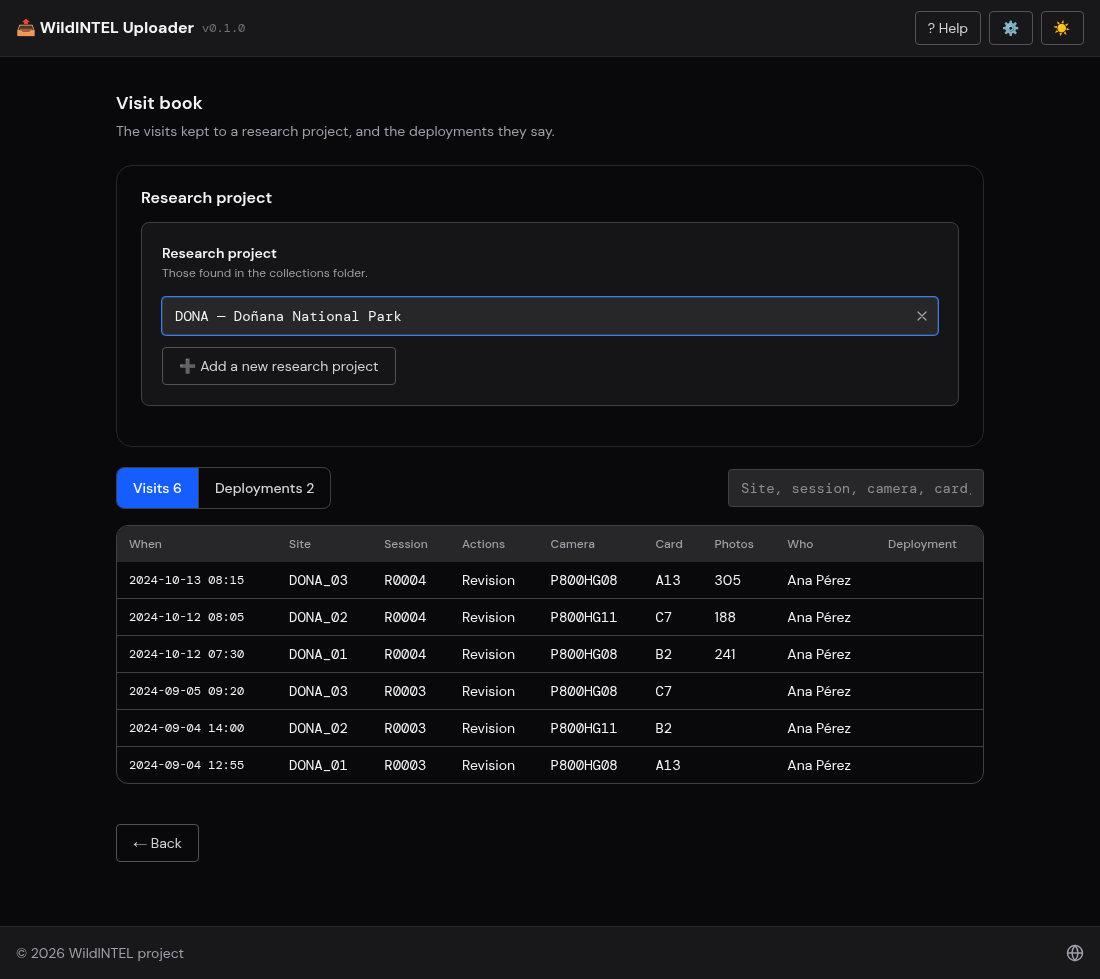
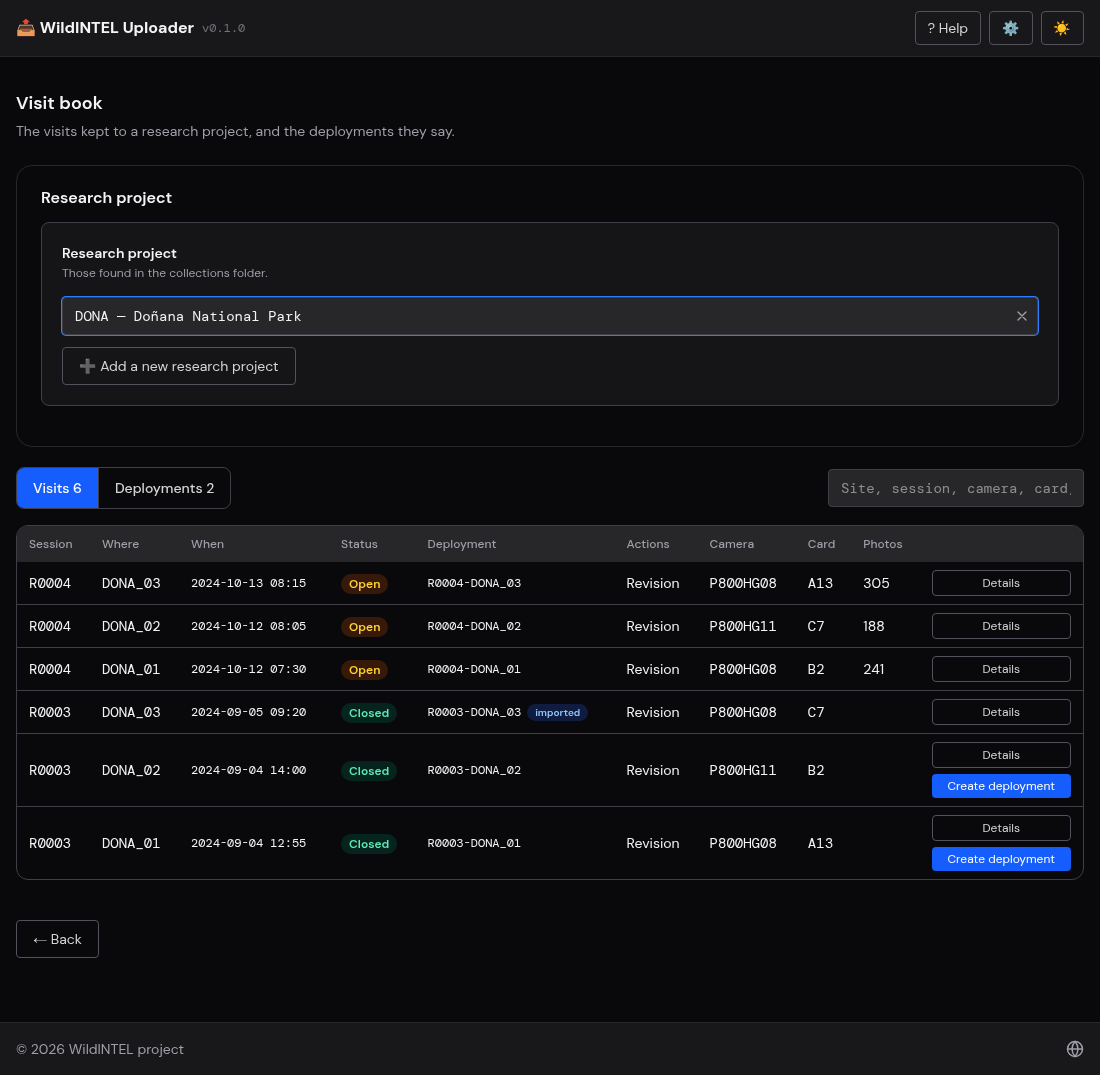
Visit book: Session, Where, When, Status (open or closed) and Deployment first; a button for the details of a visit and one to create the deployment of a closed visit

diff --git a/frontend/src/pages/VisitBookPage.tsx b/frontend/src/pages/VisitBookPage.tsx
@@ -1,22 +1,36 @@
-import { useEffect, useState } from 'react'
+import { Fragment, useEffect, useState } from 'react'
 import { api } from '../api'
 import FieldDeployments from '../components/FieldDeployments'
 import ResearchProjectPicker from '../components/ResearchProjectPicker'
 import Notice from '../components/Notice'
-import type { FieldDeployment, FieldLogsResult, LocalResearchProject, StoredVisit } from '../types'
-import { btnOutline, inputClass } from './ImportDeploymentPage'
+import type { BookVisit, ClosedVisitTarget, FieldDeployment, FieldLogsResult, LocalResearchProject } from '../types'
+import { btnOutline, btnPrimary, inputClass } from './ImportDeploymentPage'
 
 interface Props {
   onBack: () => void
+  /** Goes to Import deployment for a closed visit: its research project, and the visit whose card was collected — the deployment is of it. */
+  onImportImages?: (target: ClosedVisitTarget) => void
 }
+
+/** The fields of a visit the details show, in this order, when it has them. */
+const DETAILS: [keyof BookVisit, string][] = [
+  ['trappers', 'Who went'], ['setup_by', 'Set up by'], ['camera_id', 'Camera'], ['camera_model', 'Camera model'], ['sd', 'SD card left'], ['num_photos', 'Photos counted'], ['status', 'Status of the camera'],
+  ['card_batteries_ok', 'Card and batteries'], ['date_time_ok', 'Camera date and time OK'], ['latitude', 'Latitude'], ['longitude', 'Longitude'], ['camera_interval', 'Camera delay (s)'],
+  ['camera_height', 'Camera height (m)'], ['camera_depth', 'Camera depth (m)'], ['camera_tilt', 'Camera tilt (°)'], ['camera_heading', 'Camera heading (°)'], ['detection_distance', 'Detection distance (m)'],
+  ['timestamp_issues', 'Timestamp issues'], ['bait_use', 'Bait use'], ['feature_type', 'Feature type'], ['habitat', 'Habitat'], ['deployment_groups', 'Deployment groups'], ['tags', 'Tags'],
+  ['comments', 'Notes'], ['when', 'Instant (UTC)'], ['deployment_id', 'Deployment imported'],
+]
+
+const shownValue = (v: unknown) => (typeof v === 'boolean' ? (v ? 'yes' : 'no') : Array.isArray(v) ? v.join(', ') : String(v))
 
 type View = 'visits' | 'deployments'
 
 /** The visit book of a research project: the visits kept to it, and the deployments they say — closed, and the ones whose camera is still out — with the logs of their collections. */
-export default function VisitBookPage({ onBack }: Props) {
+export default function VisitBookPage({ onBack, onImportImages }: Props) {
   const [project, setProject] = useState<LocalResearchProject | undefined>(undefined)
   const [view, setView] = useState<View>('visits')
-  const [visits, setVisits] = useState<StoredVisit[] | null>(null)
+  const [visits, setVisits] = useState<BookVisit[] | null>(null)
+  const [opened, setOpened] = useState<string | null>(null)
   const [deployments, setDeployments] = useState<FieldDeployment[] | null>(null)
   const [filter, setFilter] = useState('')
   const [error, setError] = useState<string | null>(null)
@@ -26,7 +40,7 @@ export default function VisitBookPage({ onBack }: Props) {
     setVisits(null); setDeployments(null); setLogs(null); setError(null)
     if (!project) return
     let cancelled = false
-    api.listVisits(project.acronym)
+    api.visitBook(project.acronym)
       .then(({ results }) => { if (!cancelled) setVisits(results) })
       .catch((e) => { if (!cancelled) setError(e instanceof Error ? e.message : 'Could not read the visits.') })
     api.fieldDeployments(project.acronym)
@@ -43,11 +57,11 @@ export default function VisitBookPage({ onBack }: Props) {
 
   const needle = filter.trim().toLowerCase()
   const shown = (visits ?? [])
-    .filter((v) => !needle || `${v.location_id} ${v.session} ${v.camera_id ?? ''} ${v.sd ?? ''} ${v.trappers ?? ''} ${v.actions.join(' ')}`.toLowerCase().includes(needle))
+    .filter((v) => !needle || `${v.location_id} ${v.session} ${v.camera_id ?? ''} ${v.sd ?? ''} ${v.trappers ?? ''} ${v.actions.join(' ')} ${v.deployment ?? ''} ${v.deployment_status ?? ''}`.toLowerCase().includes(needle))
     .sort((a, b) => `${b.date}T${b.time}`.localeCompare(`${a.date}T${a.time}`))
 
   return (
-    <div className="mx-auto max-w-[900px] px-4 py-8">
+    <div className="mx-auto max-w-[1100px] px-4 py-8">
       <h4 className="text-lg font-semibold mb-1">Visit book</h4>
       <p className="text-zinc-500 dark:text-zinc-400 mb-6 text-sm">The visits kept to a research project, and the deployments they say.</p>
 
@@ -75,23 +89,51 @@ export default function VisitBookPage({ onBack }: Props) {
               <div className="overflow-x-auto rounded-xl border border-zinc-200 dark:border-zinc-700">
                 <table className="w-full text-sm" aria-label="Visits">
                   <thead className="bg-zinc-50 dark:bg-zinc-800 text-xs text-zinc-500 dark:text-zinc-400">
-                    <tr>{['When', 'Site', 'Session', 'Actions', 'Camera', 'Card', 'Photos', 'Who', 'Deployment'].map((h) => <th key={h} scope="col" className="px-3 py-2.5 text-left font-medium">{h}</th>)}</tr>
+                    <tr>{['Session', 'Where', 'When', 'Status', 'Deployment', 'Actions', 'Camera', 'Card', 'Photos', ''].map((h, i) => <th key={i} scope="col" className="px-3 py-2.5 text-left font-medium">{h || <span className="sr-only">What to do</span>}</th>)}</tr>
                   </thead>
                   <tbody className="divide-y divide-zinc-200 dark:divide-zinc-700">
-                    {shown.map((v) => (
-                      <tr key={`${v.location_id}|${v.date}|${v.time}`}>
-                        <td className="px-3 py-2 font-mono text-xs whitespace-nowrap">{v.date} {v.time.slice(0, 5)}</td>
-                        <td className="px-3 py-2 font-mono">{v.location_id}</td>
-                        <td className="px-3 py-2 font-mono">{v.session}</td>
-                        <td className="px-3 py-2">{v.actions.join(' + ')}</td>
-                        <td className="px-3 py-2 font-mono">{v.camera_id ?? ''}</td>
-                        <td className="px-3 py-2 font-mono">{v.sd ?? ''}</td>
-                        <td className="px-3 py-2">{v.num_photos ?? ''}</td>
-                        <td className="px-3 py-2">{v.trappers ?? ''}</td>
-                        <td className="px-3 py-2 font-mono text-xs">{v.deployment_id ?? ''}</td>
-                      </tr>
-                    ))}
-                    {shown.length === 0 && <tr><td colSpan={9} className="px-4 py-3 text-zinc-500 dark:text-zinc-400">{visits.length === 0 ? 'No visit has been registered to this research project yet.' : 'No visit matches.'}</td></tr>}
+                    {shown.map((v) => {
+                      const key = `${v.location_id}|${v.date}|${v.time}`
+                      return (
+                        <Fragment key={key}>
+                          <tr>
+                            <td className="px-3 py-2 font-mono">{v.session}</td>
+                            <td className="px-3 py-2 font-mono">{v.location_id}</td>
+                            <td className="px-3 py-2 font-mono text-xs whitespace-nowrap">{v.date} {v.time.slice(0, 5)}</td>
+                            <td className="px-3 py-2">
+                              {v.deployment_status
+                                ? <span className={`rounded-full px-2 py-0.5 text-xs font-semibold ${v.deployment_status === 'closed' ? 'bg-emerald-100 dark:bg-emerald-900/40 text-emerald-700 dark:text-emerald-300' : 'bg-amber-100 dark:bg-amber-900/40 text-amber-800 dark:text-amber-300'}`}>{v.deployment_status === 'closed' ? 'Closed' : 'Open'}</span>
+                                : <span className="text-zinc-400">—</span>}
+                            </td>
+                            <td className="px-3 py-2 font-mono text-xs">{v.deployment ?? ''}{v.deployment_id ? <span className="ml-1.5 rounded-full bg-blue-100 dark:bg-blue-900/40 px-2 py-0.5 text-[10px] font-semibold text-blue-700 dark:text-blue-300 font-sans">imported</span> : null}</td>
+                            <td className="px-3 py-2">{v.actions.join(' + ')}</td>
+                            <td className="px-3 py-2 font-mono">{v.camera_id ?? ''}</td>
+                            <td className="px-3 py-2 font-mono">{v.sd ?? ''}</td>
+                            <td className="px-3 py-2">{v.num_photos ?? ''}</td>
+                            <td className="px-3 py-2 whitespace-nowrap">
+                              <div className="flex flex-col gap-1.5 items-stretch">
+                                <button type="button" className={`${btnOutline} !px-2.5 !py-1 !text-xs`} aria-expanded={opened === key} aria-label={`Details of the visit ${v.session} to ${v.location_id}`} onClick={() => setOpened(opened === key ? null : key)}>Details</button>
+                                {v.deployment_status === 'closed' && !v.deployment_id && onImportImages && (
+                                  <button type="button" className={`${btnPrimary} !px-2.5 !py-1 !text-xs`} aria-label={`Create the deployment of the visit ${v.session} to ${v.location_id}`} onClick={() => onImportImages({ researchProjectId: project!.acronym, visit: v })}>Create deployment</button>
+                                )}
+                              </div>
+                            </td>
+                          </tr>
+                          {opened === key && (
+                            <tr>
+                              <td colSpan={10} className="bg-zinc-50 dark:bg-zinc-900/60 px-5 py-4">
+                                <dl aria-label={`Details of the visit ${v.session} to ${v.location_id}`} className="grid grid-cols-1 sm:grid-cols-2 gap-x-8 gap-y-1.5 text-sm">
+                                  <div className="flex gap-2"><dt className="text-zinc-500 dark:text-zinc-400">Actions</dt><dd>{v.actions.join(' + ')}</dd></div>
+                                  {DETAILS.filter(([k]) => { const value = v[k]; return value !== null && value !== undefined && value !== '' && !(Array.isArray(value) && value.length === 0) })
+                                    .map(([k, label]) => <div key={k} className="flex gap-2"><dt className="text-zinc-500 dark:text-zinc-400">{label}</dt><dd className="font-mono text-xs break-all self-center">{shownValue(v[k])}</dd></div>)}
+                                </dl>
+                              </td>
+                            </tr>
+                          )}
+                        </Fragment>
+                      )
+                    })}
+                    {shown.length === 0 && <tr><td colSpan={10} className="px-4 py-3 text-zinc-500 dark:text-zinc-400">{visits.length === 0 ? 'No visit has been registered to this research project yet.' : 'No visit matches.'}</td></tr>}
                   </tbody>
                 </table>
               </div>

diff --git a/frontend/src/pages/VisitBookPage.test.tsx b/frontend/src/pages/VisitBookPage.test.tsx
@@ -4,20 +4,22 @@ import { beforeEach, describe, expect, it, vi } from 'vitest'
 import { api } from '../api'
 import VisitBookPage from './VisitBookPage'
 
-vi.mock('../api', () => ({ api: { listResearchProjects: vi.fn(), trapperGetConfig: vi.fn(), listVisits: vi.fn(), fieldDeployments: vi.fn(), writeFieldLogs: vi.fn() } }))
+vi.mock('../api', () => ({ api: { listResearchProjects: vi.fn(), trapperGetConfig: vi.fn(), visitBook: vi.fn(), fieldDeployments: vi.fn(), writeFieldLogs: vi.fn() } }))
 const mockedApi = vi.mocked(api)
 
 const visit = (over: object) => ({
   location_id: 'TATR_0001', session: 'R0003', date: '2024-09-04', time: '09:00:00', actions: ['Installation'], trappers: 'Ana', status: null, card_batteries_ok: null, num_photos: null,
-  sd: 'A13', date_time_ok: null, latitude: null, longitude: null, camera_id: 'P800', camera_model: null, ...over,
+  sd: 'A13', date_time_ok: null, latitude: null, longitude: null, camera_id: 'P800', camera_model: null, deployment: null, deployment_status: null, ...over,
 }) as never
 
 beforeEach(() => {
   vi.clearAllMocks()
   mockedApi.trapperGetConfig.mockRejectedValue(new Error('no account in this test'))
   mockedApi.listResearchProjects.mockResolvedValue({ results: [{ name: 'Tatra', acronym: 'TATR' }] } as never)
-  mockedApi.listVisits.mockResolvedValue({ results: [
-    visit({}), visit({ date: '2024-10-12', session: 'R0004', actions: ['Revision'], num_photos: 241, sd: 'B2', deployment_id: 'R0003-TATR_0001' }), visit({ location_id: 'TATR_0002', trappers: 'Luis', camera_id: 'P900' }),
+  mockedApi.visitBook.mockResolvedValue({ results: [
+    visit({ deployment: 'R0003-TATR_0001', deployment_status: 'closed' }),
+    visit({ date: '2024-10-12', session: 'R0004', actions: ['Revision'], num_photos: 241, sd: 'B2', deployment: 'R0004-TATR_0001', deployment_status: 'open', comments: 'pilas cambiadas' }),
+    visit({ location_id: 'TATR_0002', trappers: 'Luis', camera_id: 'P900', deployment: 'R0003-TATR_0002', deployment_status: 'closed', deployment_id: 'R0003-TATR_0002' }),
   ] })
   mockedApi.fieldDeployments.mockResolvedValue({ results: [
     { deployment_id: 'R0003-TATR_0001', collection: 'R0003', site: 'TATR_0001', status: 'closed', start: '2024-09-04T09:00:00Z', end: '2024-10-12T09:00:00Z', setup_by: 'Ana', camera_id: 'P800', card: 'A13', photos_counted: 241, start_session: 'R0003', end_session: 'R0004' },
@@ -39,10 +41,35 @@ describe('VisitBookPage', () => {
     const rows = within(table).getAllByRole('row').slice(1)
     expect(rows).toHaveLength(3)
     expect(rows[0]).toHaveTextContent('2024-10-12 09:00') // the Revision, the newest
-    expect(rows[0]).toHaveTextContent('R0003-TATR_0001')   // the deployment it closed
     await userEvent.type(screen.getByLabelText('Filter the visits'), 'luis')
     expect(within(table).getAllByRole('row').slice(1)).toHaveLength(1)
-    expect(mockedApi.listVisits).toHaveBeenCalledWith('TATR')
+    expect(mockedApi.visitBook).toHaveBeenCalledWith('TATR')
+  })
+
+  it('has the session first, then where and when, the status of the visit (closed or open) and its deployment', async () => {
+    await pickProject()
+
+    const table = await screen.findByRole('table', { name: 'Visits' })
+    expect(within(table).getAllByRole('columnheader').slice(0, 5).map((h) => h.textContent)).toEqual(['Session', 'Where', 'When', 'Status', 'Deployment'])
+    const [first, second] = within(table).getAllByRole('row').slice(1)
+    expect(within(first).getAllByRole('cell').slice(0, 5).map((c) => c.textContent)).toEqual(['R0004', 'TATR_0001', '2024-10-12 09:00', 'Open', 'R0004-TATR_0001'])
+    expect(within(second).getAllByRole('cell').slice(0, 5).map((c) => c.textContent)).toEqual(['R0003', 'TATR_0001', '2024-09-04 09:00', 'Closed', 'R0003-TATR_0001'])
+  })
+
+  it('shows the details of a visit, and creates the deployment of a closed visit that has none yet', async () => {
+    const onImportImages = vi.fn()
+    render(<VisitBookPage onBack={vi.fn()} onImportImages={onImportImages} />)
+    await userEvent.click(await screen.findByLabelText('Research project'))
+    await userEvent.click(await screen.findByRole('option', { name: 'TATR — Tatra' }))
+    await screen.findByRole('table', { name: 'Visits' })
+
+    await userEvent.click(screen.getByRole('button', { name: 'Details of the visit R0004 to TATR_0001' }))
+    expect(screen.getByLabelText('Details of the visit R0004 to TATR_0001', { selector: 'dl' })).toHaveTextContent('pilas cambiadas')
+
+    // only a closed visit offers it — not the open one, nor the closed one already imported
+    expect(screen.getAllByRole('button', { name: /Create the deployment of the visit/ })).toHaveLength(1)
+    await userEvent.click(screen.getByRole('button', { name: 'Create the deployment of the visit R0003 to TATR_0001' }))
+    expect(onImportImages).toHaveBeenCalledWith({ researchProjectId: 'TATR', visit: expect.objectContaining({ session: 'R0003', location_id: 'TATR_0001' }) })
   })
 
   it('lists the deployments the visits say, the ones still out apart, and writes the logs again', async () => {

diff --git a/frontend/src/api.ts b/frontend/src/api.ts
@@ -3,7 +3,7 @@ import type {
   AppSettings, AppSettingsUpdate, ConfigInfo, UpdateCheck, PreviousDeployment, ClassificationProject, PreprocessingOptions, CollectionCheck, CollectionPath, LocalLocation, LocalResearchProject, StoredVisit, DeploymentCheck, DeploymentCheckResult, DeploymentFields,
   DeploymentSelection, ExistingDeployment, ImageCheck, ImportEvent, Location, LocalDeployment, ResearchProject,
   AccessCheck, GuessedDetails, ScanResult, SessionSummary, StatisticsParams, SyncCollection, SyncEvent, TimestampLogResult, SessionScan, UploadCollection, UploadEvent, UploadMode, ValidationResult,
-  ClosedVisit, VisitCheckInfo, VisitsCsvColumns, VisitsCsvFormat, VisitsCsvResult, Report, ReportSummary, RepairCollection, RepairEvent, Timeline, TimeFixTarget, RepairState, EpicollectForm, FieldworkVisits, FieldLogsResult, FieldDeployment } from './types'
+  ClosedVisit, VisitCheckInfo, VisitsCsvColumns, VisitsCsvFormat, VisitsCsvResult, Report, ReportSummary, RepairCollection, RepairEvent, Timeline, TimeFixTarget, RepairState, EpicollectForm, FieldworkVisits, FieldLogsResult, FieldDeployment, BookVisit } from './types'
 
 /** A failed response's message — FastAPI's `detail` when there is one. */
 async function errorMessage(r: Response): Promise<string> {
@@ -161,6 +161,8 @@ export const api = {
   closedVisits: (researchProjectId: string) => post<{ results: ClosedVisit[] }>('/api/visits/closed', { research_project_id: researchProjectId }),
 
   // Records on a visit the deployment it closed.
+  /** The visit book of a research project: its visits, each with the deployment it started and whether that is closed or open. */
+  visitBook: (researchProjectId: string) => post<{ results: BookVisit[] }>('/api/visits/book', { research_project_id: researchProjectId }),
   /** The deployments the visits of a research project say, closed and open, by collection and site. */
   fieldDeployments: (researchProjectId: string) => post<{ results: FieldDeployment[] }>('/api/visits/deployments', { research_project_id: researchProjectId }),
   /** Writes the FileTimestampLog and the FieldworkLog of the collections the visits of a research project give deployments to. */

diff --git a/tools/screenshots/mock_api.js b/tools/screenshots/mock_api.js
@@ -392,6 +392,10 @@
       'POST /api/visits/closed': () => ({ results: CLOSED_VISITS }),
       'POST /api/visits/link': () => ({ status: 'ok' }),
       'POST /api/visits/list': () => ({ results: [...CLOSED_VISITS.flatMap((c) => [c.visit, c.end])] }),
+      'POST /api/visits/book': () => ({ results: CLOSED_VISITS.flatMap((c) => [
+        { ...c.visit, deployment: `${c.visit.session}-${c.visit.location_id}`, deployment_status: 'closed', deployment_id: c.visit.location_id === 'DONA_03' ? `${c.visit.session}-${c.visit.location_id}` : undefined },
+        { ...c.end, deployment: `${c.end.session}-${c.end.location_id}`, deployment_status: 'open' },
+      ]) }),
       'POST /api/visits/deployments': () => ({ results: [
         { deployment_id: 'R0003-DONA_01', collection: 'R0003', site: 'DONA_01', status: 'closed', start: '2024-09-04T12:55:00Z', end: '2024-10-12T07:30:00Z', setup_by: 'Ana Pérez', camera_id: CAMERA.id, card: 'A13', photos_counted: 241, start_session: 'R0003', end_session: 'R0004' },
         { deployment_id: 'R0003-DONA_02', collection: 'R0003', site: 'DONA_02', status: 'open', start: '2024-09-04T14:00:00Z', end: null, setup_by: 'Ana Pérez', camera_id: 'P800HG11', card: 'B2', photos_counted: null, start_session: 'R0003', end_session: null },

diff --git a/frontend/src/types.ts b/frontend/src/types.ts
@@ -744,6 +744,12 @@ export interface VisitsCsvResult {
   warnings: string[]
 }
 
+/** A visit as the visit book shows it: with the deployment it started — closed once a later visit collected its card, open while the camera is still out — and neither when it left no camera. */
+export interface BookVisit extends StoredVisit {
+  deployment: string | null
+  deployment_status: 'closed' | 'open' | null
+}
+
 /** A deployment the visits of a research project say: closed (a visit left the camera and a later one collected its card) or still open (the camera is out). */
 export interface FieldDeployment {
   deployment_id: string

diff --git a/frontend/src/pages/VisitsHomePage.tsx b/frontend/src/pages/VisitsHomePage.tsx
@@ -21,7 +21,7 @@ export default function VisitsHomePage({ onBack, onOpenSettings, settingsOpen, o
   const [view, setView] = useState<View | null>(null)
 
   if (view === 'register') return <VisitsPage onBack={() => setView(null)} onOpenSettings={onOpenSettings} settingsOpen={settingsOpen} onImportImages={onImportImages} />
-  if (view === 'book') return <VisitBookPage onBack={() => setView(null)} />
+  if (view === 'book') return <VisitBookPage onBack={() => setView(null)} onImportImages={onImportImages} />
 
   return (
     <div className="mx-auto max-w-[900px] px-4 py-8">

diff --git a/tests/unit/test_visits_api.py b/tests/unit/test_visits_api.py
@@ -632,3 +632,14 @@ def test_a_revision_is_of_the_camera_that_is_at_the_site_unless_the_visit_also_i
     assert other.status_code == 422 and "The camera at DONA_01 is P800" in other.json()["detail"] and "add an Installation" in other.json()["detail"]
     assert same.status_code == 200                                  # the camera that is there, whatever its case
     assert swapped.status_code == 200                               # the camera was replaced: the visit says so
+
+
+def test_the_visit_book_gives_each_visit_the_deployment_it_started_closed_or_open(tmp_path: Path):
+    with _in(tmp_path):
+        _field_visits()
+        book = _client().post("/api/visits/book", json={"research_project_id": "DONA"}).json()["results"]
+
+    by = {(v["location_id"], v["session"]): v for v in book}
+    assert (by[("DONA_01", "R0003")]["deployment"], by[("DONA_01", "R0003")]["deployment_status"]) == ("R0003-DONA_01", "closed")
+    assert (by[("DONA_01", "R0004")]["deployment"], by[("DONA_01", "R0004")]["deployment_status"]) == ("R0004-DONA_01", "open")   # it left a card again: still out
+    assert (by[("DONA_02", "R0003")]["deployment"], by[("DONA_02", "R0003")]["deployment_status"]) == ("R0003-DONA_02", "open")

diff --git a/src/wildintel_uploader/web/api/routers/visits.py b/src/wildintel_uploader/web/api/routers/visits.py
@@ -150,3 +150,16 @@ def field_logs(req: FieldLogsRequest) -> dict:
         return visit_deployments.write_collection_logs(config.collections_dir(), req.research_project_id, req.collections, config.load_settings().FIELDLOG.keep_seconds)
     except local_folder_service.LocalFolderError as exc:
         raise HTTPException(400, str(exc)) from exc
+
+
+@router.post("/book")
+def visit_book(req: ListVisitsRequest) -> dict:
+    """The visit book of a research project: its visits, each with the deployment it started and whether that is closed (a later visit collected its card) or
+    open (the camera is still out)."""
+    try:
+        root = config.collections_dir()
+        local_folder_service.require_research_project(root, req.research_project_id)
+        visits = local_folder_service.list_visits(root, req.research_project_id, req.location_id)
+        return {"results": visit_deployments.visit_book(visits, config.load_settings().FIELDLOG.keep_seconds)}
+    except local_folder_service.LocalFolderError as exc:
+        raise HTTPException(400, str(exc)) from exc

diff --git a/src/wildintel_uploader/core/services/visit_deployments.py b/src/wildintel_uploader/core/services/visit_deployments.py
@@ -176,6 +176,17 @@ def deployments(visits: list[dict], keep_seconds: bool = True) -> list[dict]:
     return sorted(out, key=lambda d: (d["collection"], d["site"].lower()))
 
 
+def visit_book(visits: list[dict], keep_seconds: bool = True) -> list[dict]:
+    """The visits as the visit book shows them, each with the deployment it started — `deployment` (its id) and `deployment_status` ("closed" once a later visit collected
+    its card, "open" while the camera it left is still out) — and neither for a visit that left no camera."""
+    started = {id(d["start_visit"]): d for d in deployments(visits, keep_seconds)}
+    out = []
+    for v in visits:
+        d = started.get(id(v))
+        out.append({**v, "deployment": d["deployment_id"] if d else None, "deployment_status": d["status"] if d else None})
+    return out
+
+
 def _wall(when: str, location: dict | None) -> dt.datetime:
     date, time = visit_time.to_wall(when, location)
     return dt.datetime.fromisoformat(f"{date}T{time}")

diff --git a/CHANGELOG.md b/CHANGELOG.md
@@ -21,6 +21,7 @@ adheres to [Semantic Versioning](https://semver.org/spec/v2.0.0.html).
 - **Locations from the file itself**: the sites of a file that are not locations come with the coordinates of their first visit, and **Add the N sites with coordinates as locations** keeps them all at once (the ones that look like a misprint are left for the user).
 - **Manage visits** is the task of the menu (it was *Register visits*): it offers **Register visits** and **Show the visit book** — the visits kept to a research project (newest first, with a filter and the deployment each closed) and, in a second tab, the
   deployments they say (closed, and the ones whose camera is still out) with the button to write the logs of all the collections again.
+- **The visit book** (`/api/visits/book`) lists a visit as *Session · Where · When · Status (open or closed) · Deployment*, then its actions, camera, card, photos and who went; **Details** shows everything the visit says and **Create deployment** (only on a closed visit with no deployment imported yet) opens Import deployment with that visit chosen.
 - **The cameras and the SD cards are kept in the folder of their research project** (`<research project>/cameras.json` and `sd_cards.json`, beside `locations.json` and `visits.json`), so they travel with its collections; only the trappers stay in
   `settings.toml`. `GET /api/settings` gives the ones of every research project and `PUT /api/settings` saves each project's list in its folder — a camera or a card needs its research project (`422` otherwise). Those kept in `settings.toml`
   until now are moved when the settings are read (one that was free for any goes to each research project; one of a project that is not in the collections folder stays in the settings).

diff --git a/docs/user-manual-web.md b/docs/user-manual-web.md
@@ -210,8 +210,12 @@ Press **📋 Manage visits**: it offers **Register visits** and **Show the visit
 
 ![The visit book](img/screenshots/visit-book.png)
 
-Choose a research project and the book shows, in two tabs, the **visits** kept to it — newest first, with the site, session, actions, camera, card, photos, who went and the deployment each one closed, and a filter —
-and the **deployments** its visits say, by collection: the closed ones and the ones whose camera is still out, with **Write the logs of all the collections again**.
+Choose a research project and the book shows, in two tabs, the **visits** kept to it — newest first, with a filter — and the **deployments** its visits say, by collection: the closed ones and the ones whose camera is still out, with
+**Write the logs of all the collections again**.
+
+A visit is one row: its **Session**, **Where** (the site), **When**, its **Status** — *Closed* once a later visit collected the card it left, *Open* while that camera is still out, nothing for a visit that left no camera — and the **Deployment** it started,
+then the actions, the camera, the card and the photos. **Details** opens everything the visit says (who went, the camera model, the details of the camera and the site, the notes, its instant in UTC…). **Create deployment** appears on a *closed* visit that has no deployment imported yet:
+it opens [Import deployment](#6-import-a-deployment) with the research project and that visit already chosen.
 
 ### Register visits
 
